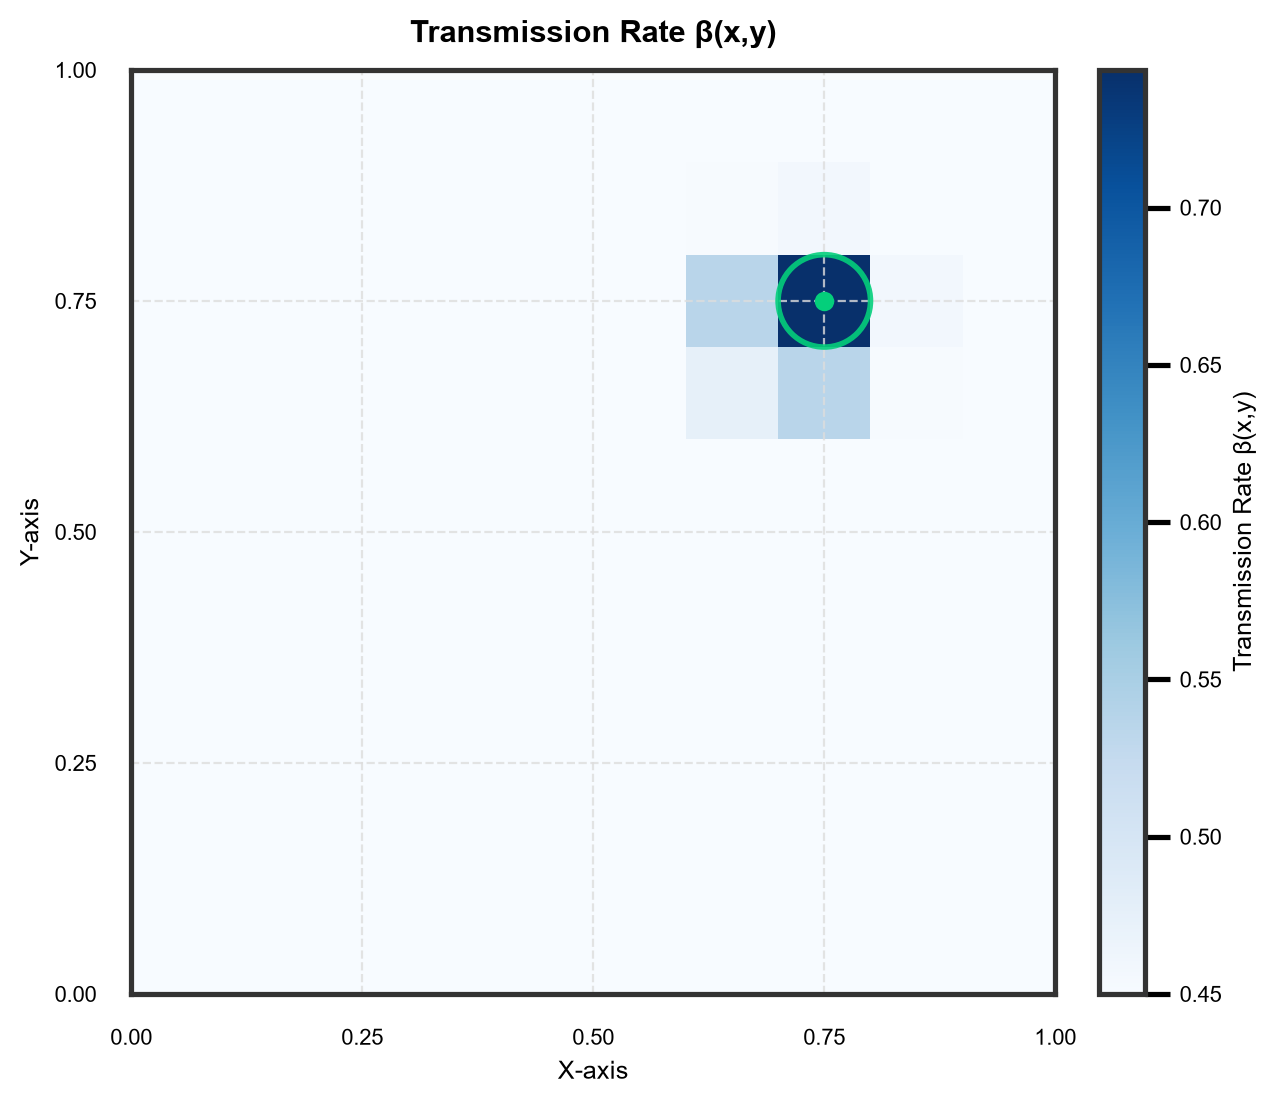
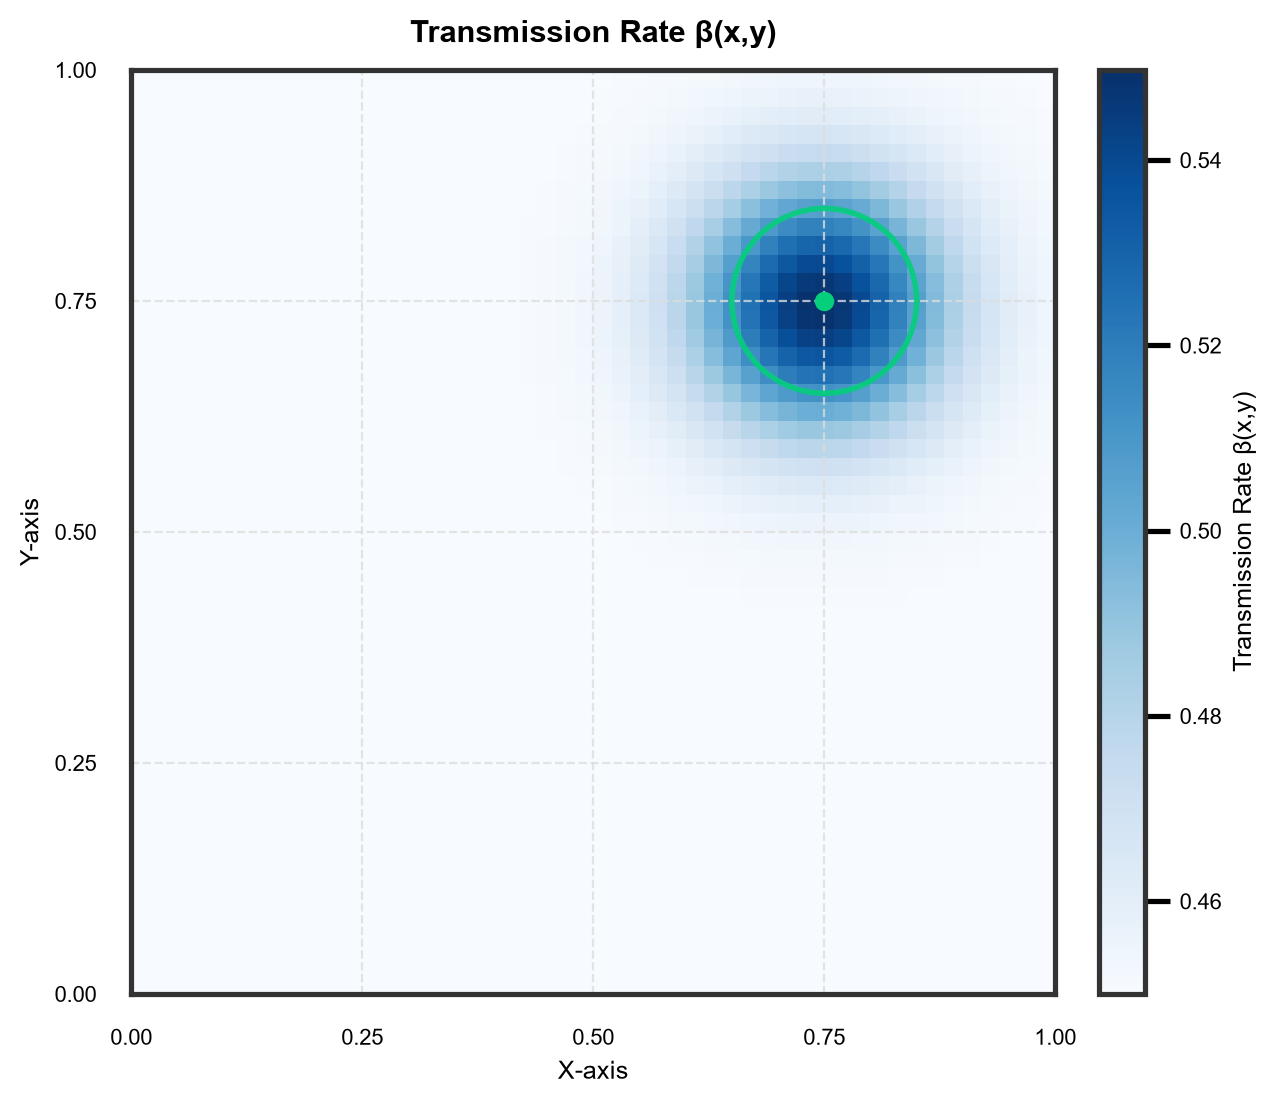
updated seirs params

diff --git a/src/core/SEIRSParameters.py b/src/core/SEIRSParameters.py
@@ -69,8 +69,8 @@ class SEIRSParameters:
         sigma: identical in x and y
         """
         X, Y = self.make_grid()
-        B = constant + coeff * ( ( 1/(sigma**2) )
-                           * np.exp(-(1/(2*sigma**2)) * ((X - mu[0])**2 + (Y - mu[1])**2))
+        B = constant + coeff * ( 
+                           np.exp(-(1/(2*sigma**2)) * ((X - mu[0])**2 + (Y - mu[1])**2))
                         )
         return B
 